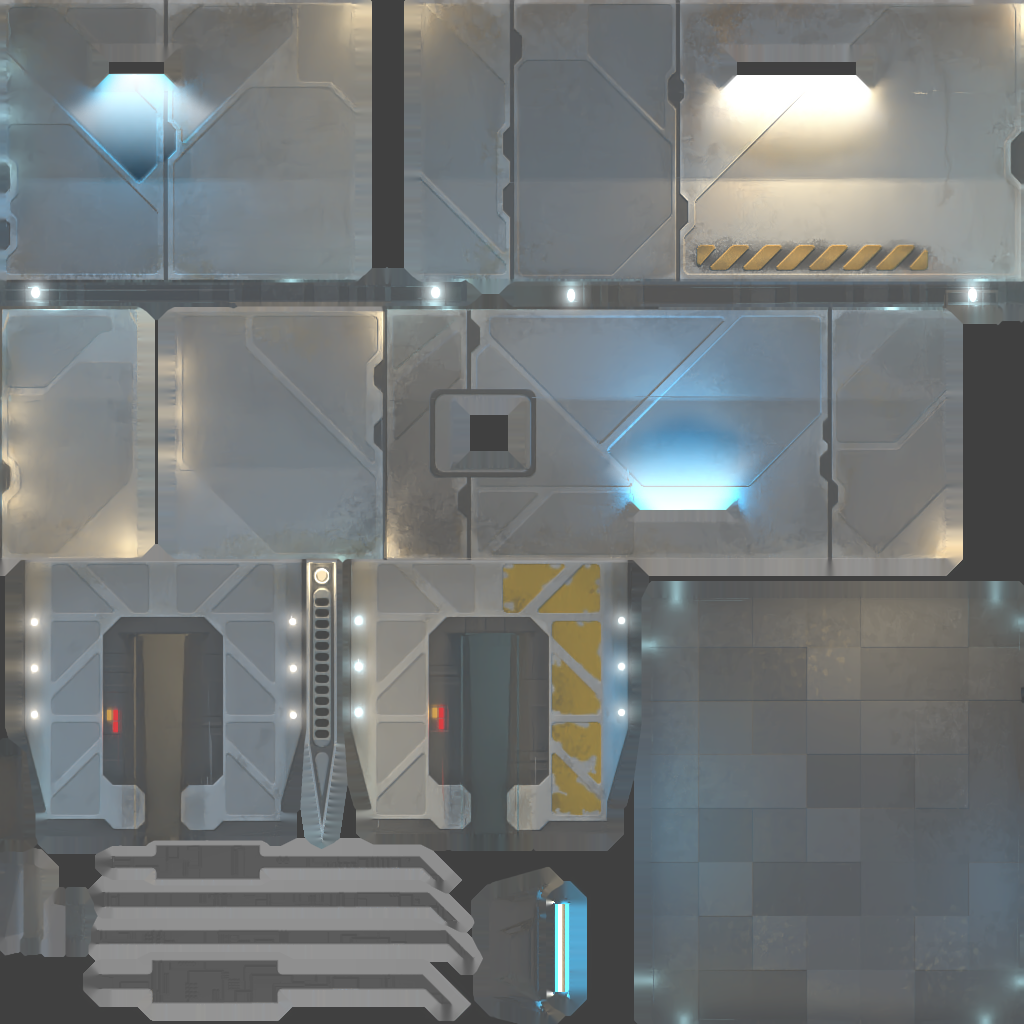
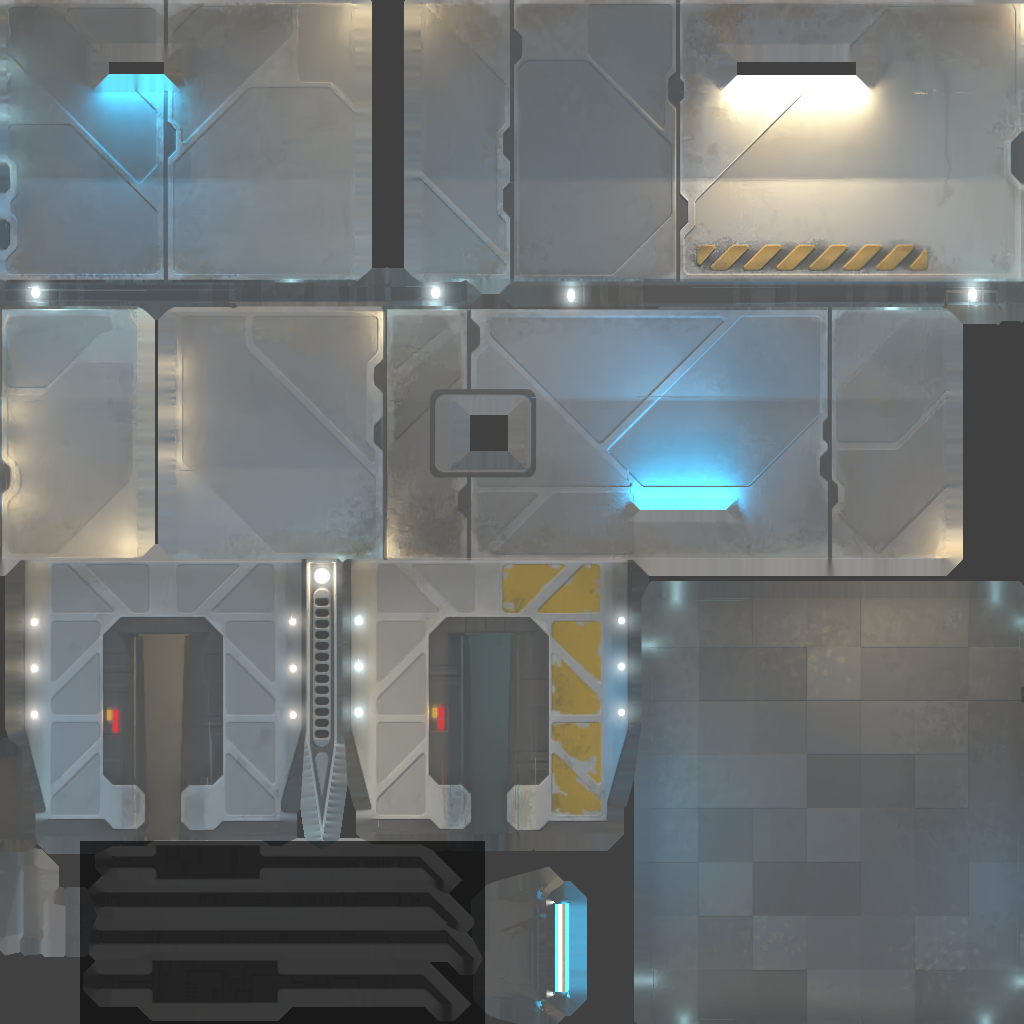
New interior lightmap. Alignments and new devship.

diff --git a/src/js/tilemap/modules/cargo-hall.js b/src/js/tilemap/modules/cargo-hall.js
@@ -41,17 +41,11 @@ function getModuleLevelData(level, type) {
                 }
             },
             aligners: [ // Based on turn value (0 = no turn, 1 = 90 deg, 2 = 180 deg, 3 = 270 deg)
-                [0.5, 0.5],
-                [1.5,0.5],
-                [0.5,3.5],
-                [3.5,3.5],
+                [0.47, 0.47],
+                [0.47,7.55],
+                [7.55,8.53],
+                [8.55,0.46],
             ],
-            // aligners: [ // Based on turn value (0 = no turn, 1 = 90 deg, 2 = 180 deg, 3 = 270 deg)
-            //     [0,0],
-            //     [0,0],
-            //     [0,0],
-            //     [0,0],
-            // ],
             tilemap: [
                 [{type:2},{type:2},{type:2},{type:3},{type:2},{type:2},{type:2},{type:2},{type:2}],
                 [{type:2},{type:1},{type:1},{type:1},{type:1},{type:1},{type:1},{type:1},{type:2}],

diff --git a/src/js/data/dev-ship.js b/src/js/data/dev-ship.js
@@ -24,8 +24,10 @@ function getShipFloors() {
         {
             floor: 1,
             modules: [
-                //{module:[1,0],level:1,pos:[42,33]},
-                {module:[2,0],level:1,pos:[28,33],turn:0},
+                {module:[2,0],level:1,pos:[28,33],turn:3},
+                {module:[2,1],level:1,pos:[26,23],turn:2},
+                {module:[2,2],level:1,pos:[35,21],turn:1},
+                {module:[2,2],level:1,pos:[38,30],turn:0},
             ],
         },
     ]
